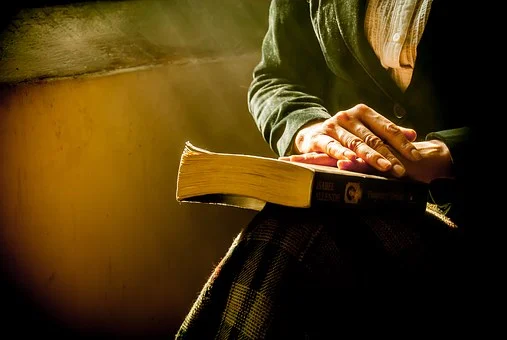
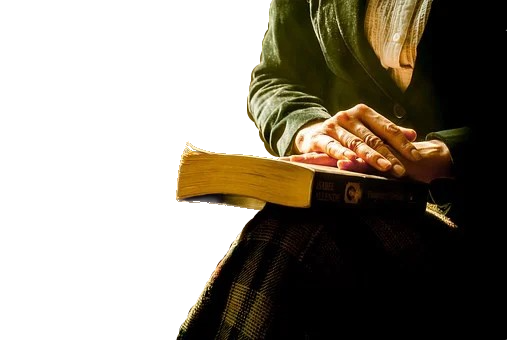
addition

diff --git a/pk/index.html b/pk/index.html
@@ -106,7 +106,7 @@
                 </div>
             </div>
             <div id="innerpic" class="col-12 col-xs-12 col-sm-12 col-md-12 col-lg-12 col-xl-4 d-none d-xl-block">
-                <!-- <img src="img/reading.png" alt=""> -->
+                <img src="img/reading.png" alt="Book Reading Image" height="365">
             </div>
         </div>
         <div class="jbcorner"><strong>*Currently only in Surat</strong></div>

diff --git a/pk/css/style.css b/pk/css/style.css
@@ -196,7 +196,10 @@ button .navbar-toggler {
     padding: 9px 35px;
     margin-left: 40px;
 }
-
+#innerpic {
+    margin-top: -37px;
+    opacity: 0.5;
+}
 .jbcorner {
     position: relative;
     font-weight: 600;
